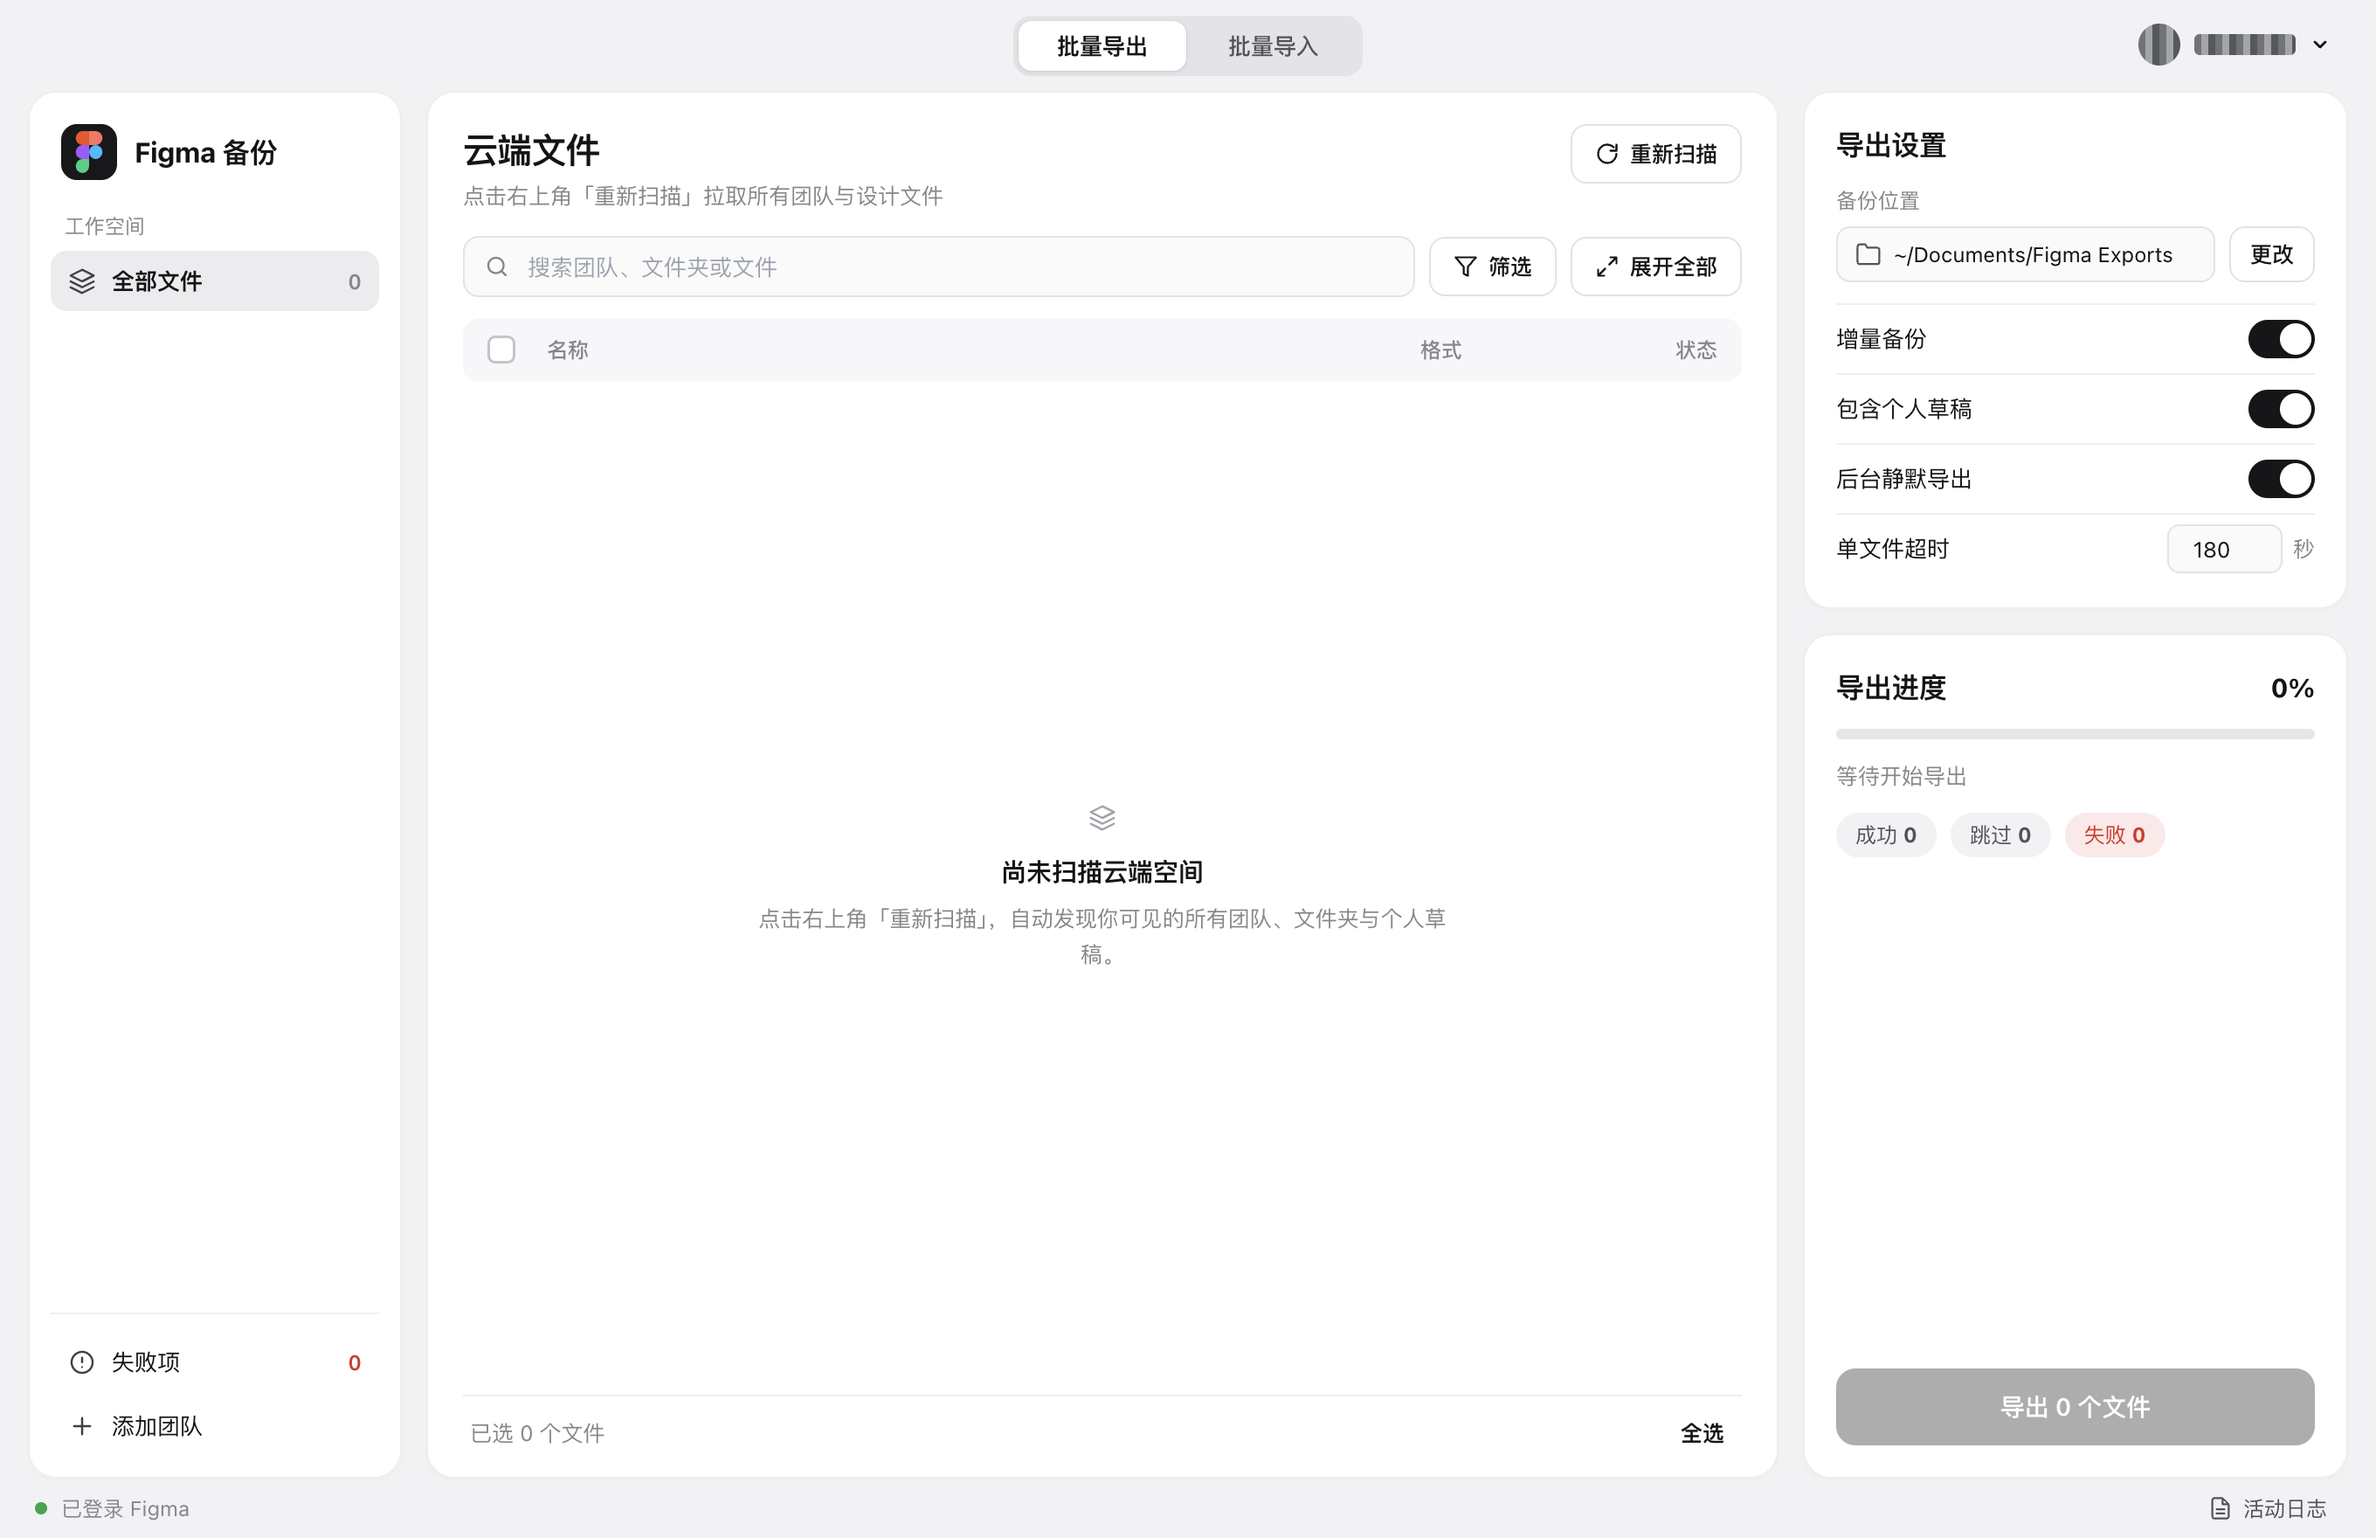
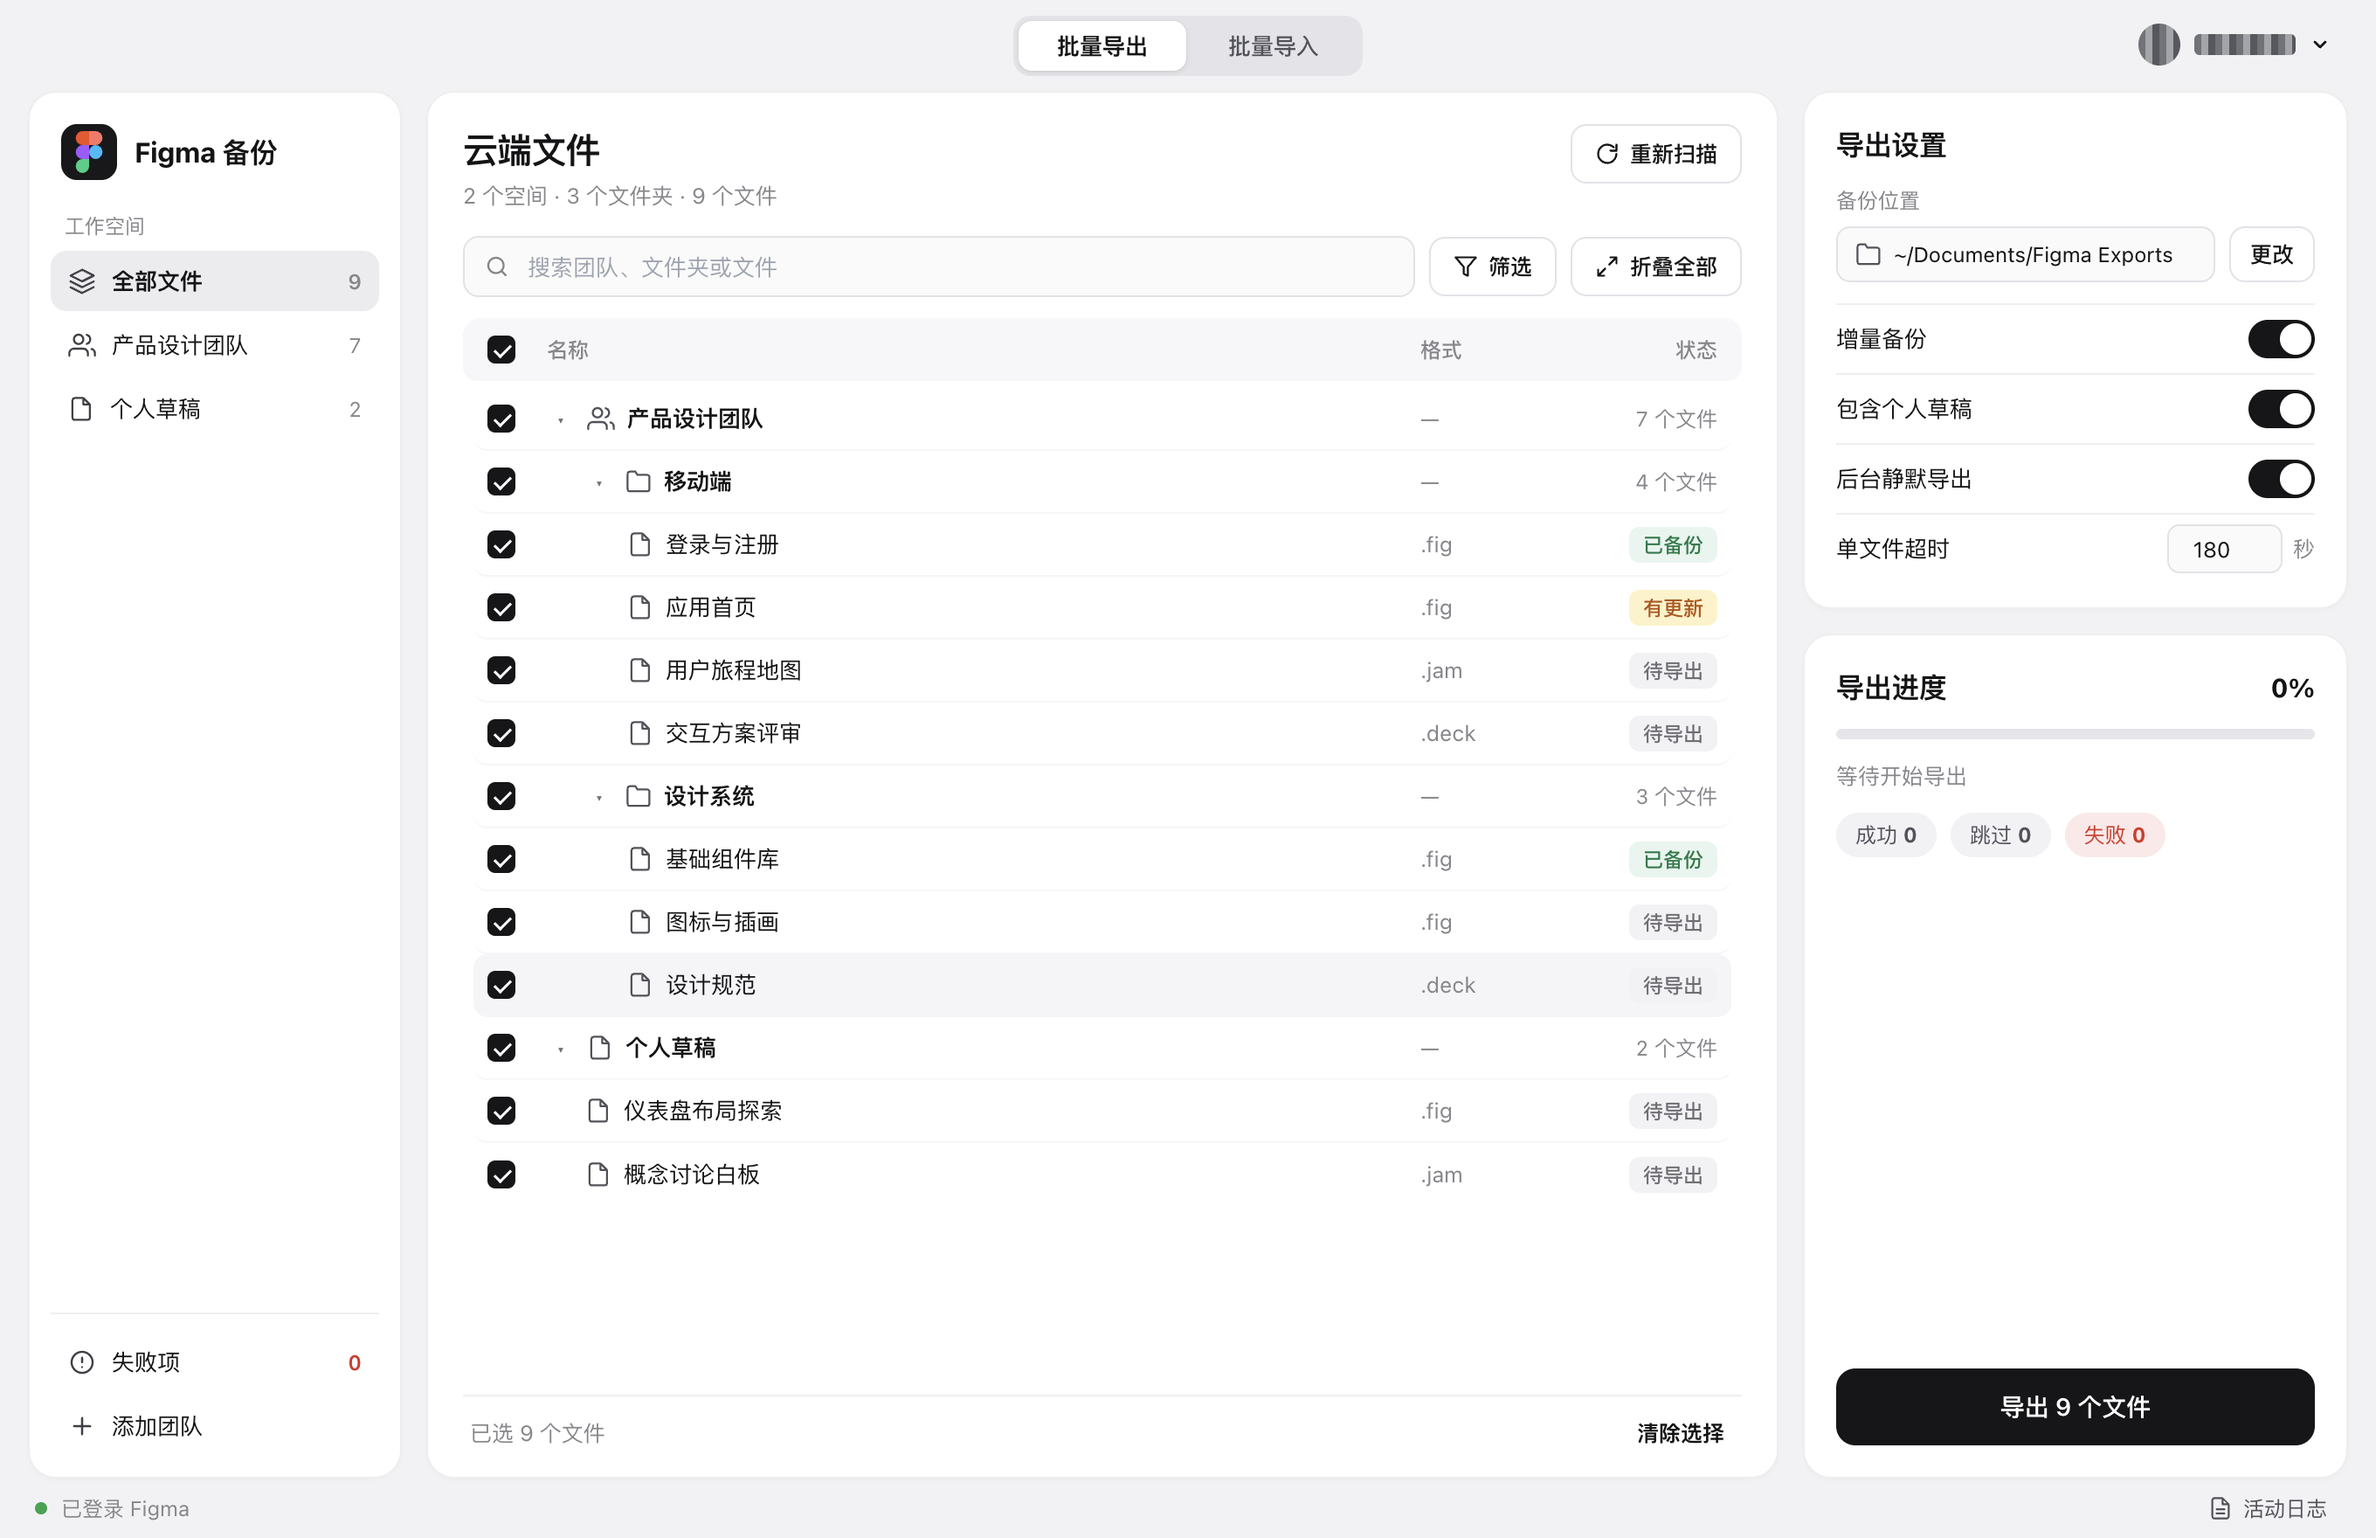
Show example files in README screenshots

diff --git a/README.md b/README.md
@@ -17,7 +17,7 @@ Figma 文件批量导入导出工具，支持 macOS 和 Windows。
 
 ## 应用截图
 
-以下为登录 Figma 后的 macOS 应用界面，账号名称与头像已打码。
+以下截图展示 macOS 应用中的示例团队、项目和文件。账号名称与头像已打码。
 
 ### 批量导出
 
